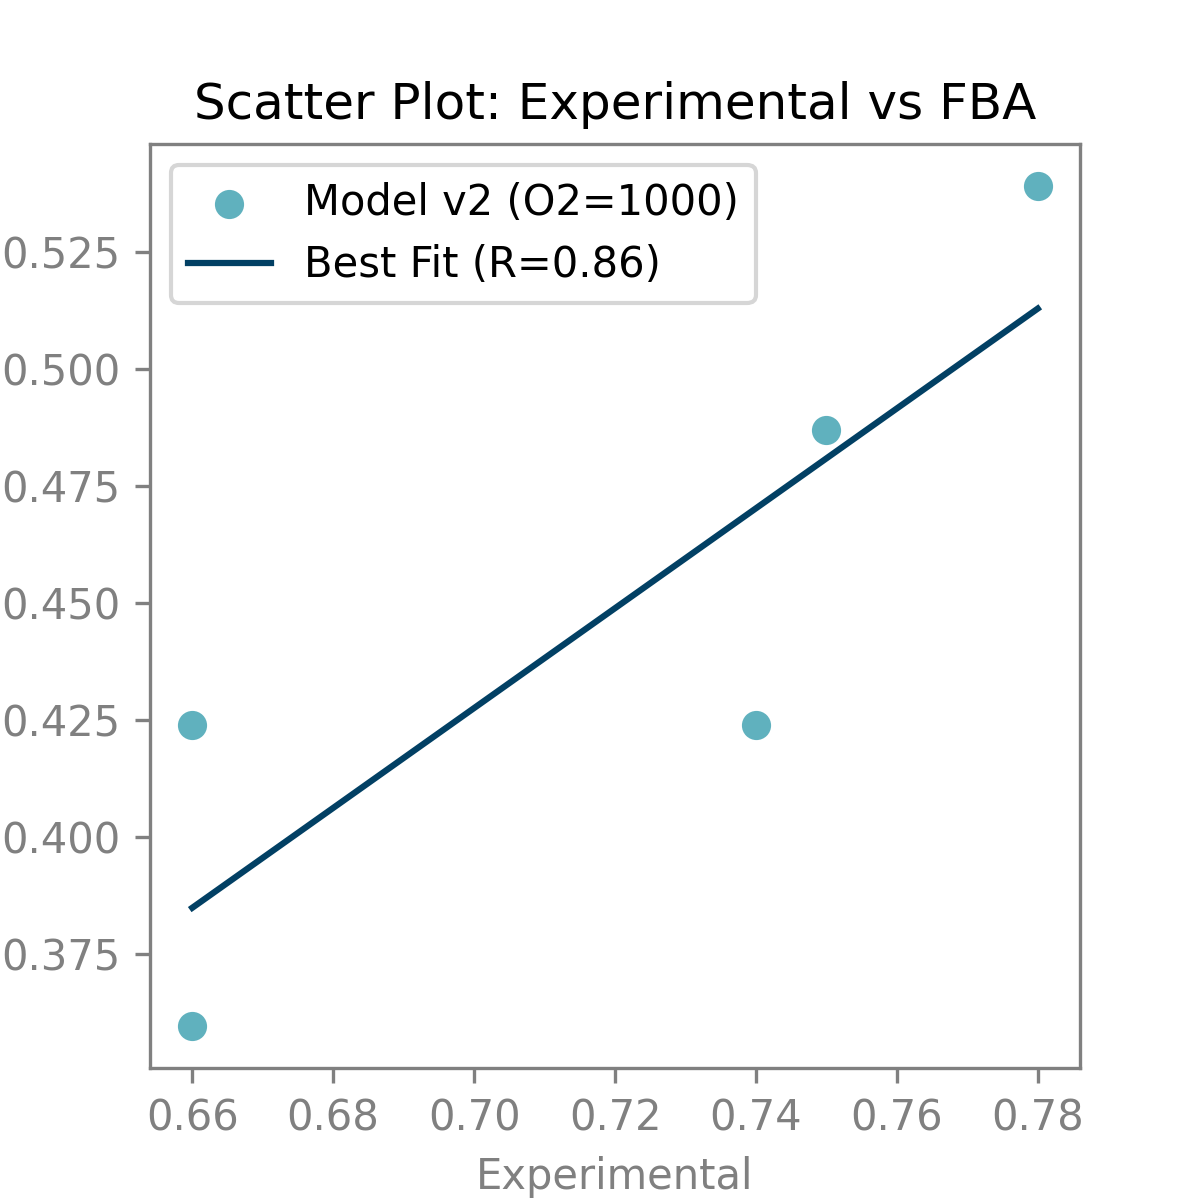
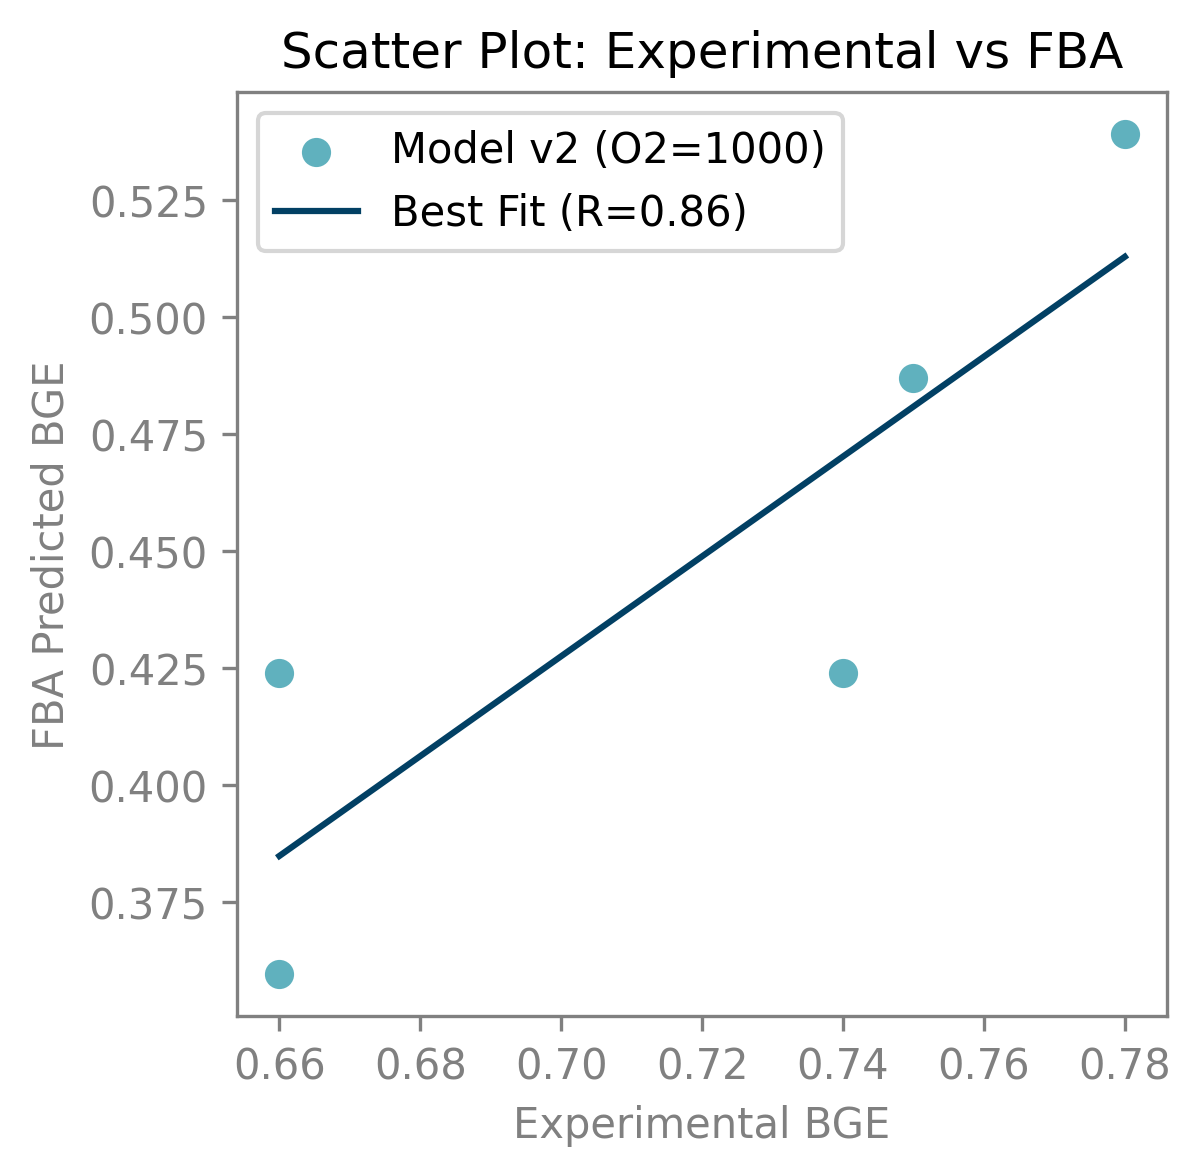
Change column names and expand on axis labels

Changed region(s): [[0.0, 0.0306, 0.9867, 1.0], [0.6783, 0.551, 0.7092, 0.5816], [0.6167, 0.5816, 0.6475, 0.6122]]

diff --git a/mit1002_full/glc_and_ace/vs_experimental/plot_exp_vs_pred_cue.py b/mit1002_full/glc_and_ace/vs_experimental/plot_exp_vs_pred_cue.py
@@ -1,7 +1,6 @@
 import os
 
 import matplotlib.pyplot as plt
-import numpy as np
 import pandas as pd
 from scipy.stats import linregress
 
@@ -20,9 +19,9 @@ if not os.path.exists(OUT_DIR):
 data = {
     "Glucose Only": [0.78],
     "Acetate Only": [0.66],
-    "Glucose Heavy Mix": [0.75],
-    "Acetate Heavy Mix (Early)": [0.74],
-    "Acetate Heavy Mix (Late)": [0.66],
+    "Glucose 4mM, Acetate 8mM": [0.75],
+    "Glucose 4mM, Acetate 8mM (Early)": [0.74],
+    "Glucose 4mM, Acetate 8mM (Late)": [0.66],
 }
 # Convert data to a pandas DataFrame
 bge_df = pd.DataFrame(data)
@@ -38,35 +37,45 @@ fba_data = pd.read_csv(
 bge_df.loc["FBA (O2=5)"] = {
     "Glucose Only": fba_data.loc["Glucose Only(O2 = 5)_fba", "bge"],
     "Acetate Only": fba_data.loc["Acetate Only(O2 = 5)_fba", "bge"],
-    "Glucose Heavy Mix": fba_data.loc["Glucose Heavy Mix(O2 = 5)_fba", "bge"],
-    "Acetate Heavy Mix (Early)": fba_data.loc["Acetate Heavy Mix(O2 = 5)_fba", "bge"],
+    "Glucose 4mM, Acetate 8mM": fba_data.loc["Glucose Heavy Mix(O2 = 5)_fba", "bge"],
+    "Glucose 4mM, Acetate 8mM (Early)": fba_data.loc[
+        "Acetate Heavy Mix(O2 = 5)_fba", "bge"
+    ],
 }
 bge_df.loc["FBA (O2=10)"] = {
     "Glucose Only": fba_data.loc["Glucose Only(O2 = 10)_fba", "bge"],
     "Acetate Only": fba_data.loc["Acetate Only(O2 = 10)_fba", "bge"],
-    "Glucose Heavy Mix": fba_data.loc["Glucose Heavy Mix(O2 = 10)_fba", "bge"],
-    "Acetate Heavy Mix (Early)": fba_data.loc["Acetate Heavy Mix(O2 = 10)_fba", "bge"],
+    "Glucose 4mM, Acetate 8mM": fba_data.loc["Glucose Heavy Mix(O2 = 10)_fba", "bge"],
+    "Glucose 4mM, Acetate 8mM (Early)": fba_data.loc[
+        "Acetate Heavy Mix(O2 = 10)_fba", "bge"
+    ],
 }
 bge_df.loc["FBA (O2=20)"] = {
     "Glucose Only": fba_data.loc["Glucose Only(O2 = 20)_fba", "bge"],
     "Acetate Only": fba_data.loc["Acetate Only(O2 = 20)_fba", "bge"],
-    "Glucose Heavy Mix": fba_data.loc["Glucose Heavy Mix(O2 = 20)_fba", "bge"],
-    "Acetate Heavy Mix (Early)": fba_data.loc["Acetate Heavy Mix(O2 = 20)_fba", "bge"],
+    "Glucose 4mM, Acetate 8mM": fba_data.loc["Glucose Heavy Mix(O2 = 20)_fba", "bge"],
+    "Glucose 4mM, Acetate 8mM (Early)": fba_data.loc[
+        "Acetate Heavy Mix(O2 = 20)_fba", "bge"
+    ],
 }
 bge_df.loc["FBA (O2=30)"] = {
     "Glucose Only": fba_data.loc["Glucose Only(O2 = 30)_fba", "bge"],
     "Acetate Only": fba_data.loc["Acetate Only(O2 = 30)_fba", "bge"],
-    "Glucose Heavy Mix": fba_data.loc["Glucose Heavy Mix(O2 = 30)_fba", "bge"],
-    "Acetate Heavy Mix (Early)": fba_data.loc["Acetate Heavy Mix(O2 = 30)_fba", "bge"],
+    "Glucose 4mM, Acetate 8mM": fba_data.loc["Glucose Heavy Mix(O2 = 30)_fba", "bge"],
+    "Glucose 4mM, Acetate 8mM (Early)": fba_data.loc[
+        "Acetate Heavy Mix(O2 = 30)_fba", "bge"
+    ],
 }
 bge_df.loc["FBA (O2=1000)"] = {
     "Glucose Only": fba_data.loc["Glucose Only(O2 = 1000)_fba", "bge"],
     "Acetate Only": fba_data.loc["Acetate Only(O2 = 1000)_fba", "bge"],
-    "Glucose Heavy Mix": fba_data.loc["Glucose Heavy Mix(O2 = 1000)_fba", "bge"],
-    "Acetate Heavy Mix (Early)": fba_data.loc[
+    "Glucose 4mM, Acetate 8mM": fba_data.loc["Glucose Heavy Mix(O2 = 1000)_fba", "bge"],
+    "Glucose 4mM, Acetate 8mM (Early)": fba_data.loc[
         "Acetate Heavy Mix(O2 = 1000)_fba", "bge"
     ],
-    "Acetate Heavy Mix (Late)": fba_data.loc["Acetate Heavy Mix(O2 = 1000)_fba", "bge"],
+    "Glucose 4mM, Acetate 8mM (Late)": fba_data.loc[
+        "Acetate Heavy Mix(O2 = 1000)_fba", "bge"
+    ],
 }
 
 # Order the columns in increasing order (for the Experimental data)
@@ -84,7 +93,7 @@ plt.scatter(
     bge_df_transposed["Experimental"],
     bge_df_transposed["FBA (O2=1000)"],
     label="Model v2 (O2=1000)",
-    c="#60B1BE"
+    c="#60B1BE",
 )
 
 # Perform linear regression to get the slope, intercept, and R-value
@@ -115,8 +124,8 @@ plt.gca().spines["left"].set_color("gray")
 plt.gca().spines["bottom"].set_color("gray")
 plt.gca().tick_params(axis="x", colors="gray")
 plt.gca().tick_params(axis="y", colors="gray")
-plt.xlabel("Experimental", color="gray")
-plt.ylabel("FBA", color="gray")
+plt.xlabel("Experimental BGE", color="gray")
+plt.ylabel("FBA Predicted BGE", color="gray")
 
 # Save the plot
-plt.savefig(os.path.join(OUT_DIR, "exp_vs_fba.png"), dpi=300)
+plt.savefig(os.path.join(OUT_DIR, "exp_vs_fba.png"), dpi=300, bbox_inches="tight")
